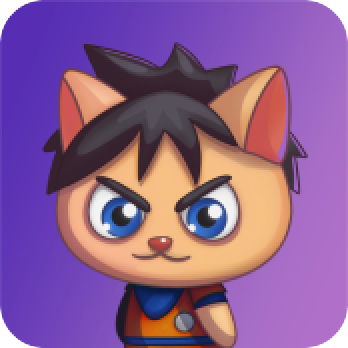
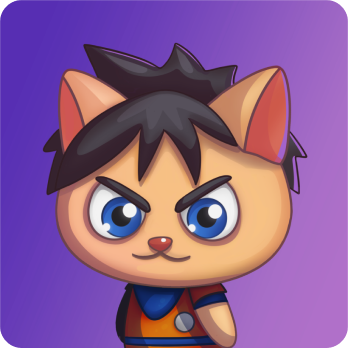
- Improved kitty image on welcome screen + text - Improved FAQ question/answers

diff --git a/src/components/Faq/index.tsx b/src/components/Faq/index.tsx
@@ -76,18 +76,18 @@ const useStyles = makeStyles((theme: Theme) =>
 );
 
 const FAQ_DATAS = [
-  {question: 'Q: What are SolKitties?',                         answer: ' Sol Kitties are a collection of distinctive kitties. We spent over 4 months drawing the kitties.'},
-  {question: 'Q: Will this have this utility?',                 answer: ' Yes! The collection will have a utility in our game coming out 2022.'},
-  {question: 'Q: Is this a generative NFT project?',            answer: ' It is, 3080 SolKitties in total'},
-  {question: 'Q: How much is a SolKitty for?',                  answer: ' 1 SOL.'},
-  {question: 'Q: When is the next sale/drop date?',             answer: ' December, 2021.'},
-  {question: 'Q: What blockchain does SolKitties bellonw to?',  answer: ' Well, SOLKitties come from Solana blockchain!'},
-  {question: 'Q: How do I buy a SolKitty NFT?',                 answer: ' You will head to our website during launch and mint a random fighter during the presale or public mint. If you miss that there will be a secondary market!'},
-  {question: 'Q: What about a secondary market?',               answer: ' You can count with it!'},
-  {question: 'Q: How do I create and found my Solana wallet?',  answer: ' Go to Phantom, download the Phantom wallet extension. Once the extension is installed, run the program and create a new wallet. Then, to found it go to FTX.com or Binance (any exchange that sells and supports Solana token transfer) and purchase SOL. Once you have SOL, send it over to your SOL address in your Solana wallet.'},
-  {question: 'Q: Do I want own the Solkitty I’m paying for?',   answer: ' Your Kitty is yours with full intellectual property owned by you, do as you must!'},
-  {question: 'Q: Is there a limit on how many I can mint?',     answer: ' There has never been a limit on the creation of greatness. No!'},
-  {question: 'Q: Where is the digital artwork stored?',         answer: ' SolKitties will be stored on Airweave which is a decentralized data storage. Airweave backs data with sustainable and perpetual endowments. This all means you can store data for eternity. Your Legend will live forever!'},
+  {question: 'Q: What are Sol Kitties?',                        answer: ' Sol Kitties are a collection of distinctive kitties. We spent over 4 months drawing the kitties.'},
+  {question: 'Q: Will this have a utility?',                    answer: ' Yes! The collection will have a utility in our game coming out 2022 Q1.'},
+  {question: 'Q: How many items in this NFT project?',          answer: ' There are 3,080 hand-drawn Sol Kitties in total'},
+  {question: 'Q: How much mint cost for a Sol Kitty?',          answer: ' 1 SOL.'},
+  {question: 'Q: When is the next sale/drop date?',             answer: ' December 2021.'},
+  {question: 'Q: What blockchain does Sol Kitties bellong to?', answer: ' Sol Kitties are about to invade the Solana block-chain!'},
+  {question: 'Q: How do I buy a Sol Kitty NFT?',                answer: ' You will head to our website during launch and mint a random Sol Kitty during the presale or public mint. If you miss that there will be a secondary market!'},
+  {question: 'Q: What about a secondary market?',               answer: ' You can count on it!'},
+  {question: 'Q: How do I create and fund my Solana wallet?',   answer: ' Go to Phantom, download the Phantom wallet extension. Once the extension is installed, create a new wallet. Then, to fund it go to FTX.com or Binance (any exchange that sells and supports Solana token transfer) and purchase SOL. Once you have SOL, send it over to your SOL address in your Solana wallet.'},
+  {question: 'Q: Do I own the Solkitty I’m paying for?',        answer: ' Your Kitty is yours with full intellectual property owned by you, do as you want!'},
+  {question: 'Q: Is there a limit on how many I can mint?',     answer: ' There is no limit. Enjoy and mint as much as you want.'},
+  {question: 'Q: Where is the digital artwork stored?',         answer: ' Sol Kitties will be stored on Airweave, which is a decentralized data storage. Airweave backs data with sustainable and perpetual endowments. This all means you can store data for eternity. Your Kitty will live forever!'},
   {question: 'Q: Where will the royalties go to?',              answer: ' All 5% of resale royalties will be used to sweep out the floor and increase the collection value as we are building a strong community and aiming for the long-run.'},
 ]
 

diff --git a/src/components/HomeHero/index.tsx b/src/components/HomeHero/index.tsx
@@ -74,9 +74,9 @@ export const HomeHero = () => {
                 </div>
               </div>
               <div className='sale-desc'>
-                Sol Kitties is a revolutionary community-oriented NFT project on Solana with unique Sharikng Royalty
-                Ecomony for Community.   &nbsp;&nbsp;
-                <span className='sale-desc-link'>Check more details.</span>
+                Sol Kitties is a revolutionary community-oriented NFT project on Solana block-chain with a unique hand-drown art specially
+                made for the Community.   &nbsp;&nbsp;
+                {/*<span className='sale-desc-link'>Check more details.</span>*/}
               </div>
             </div>
             <div className='sale-image'>

diff --git a/src/components/Story/index.tsx b/src/components/Story/index.tsx
@@ -45,7 +45,7 @@ export const Story = () => {
                   JOIN OUR DISCORD
                 </div>
                 <p>
-                  Giveaways everyday until our launch !
+                  Giveaways events until our launch !
                 </p>
                 <a href='https://discord.gg/7Hg6rHbkke' target="_blank" style={{textDecoration: 'none'}}>
                   <JoinButton>
